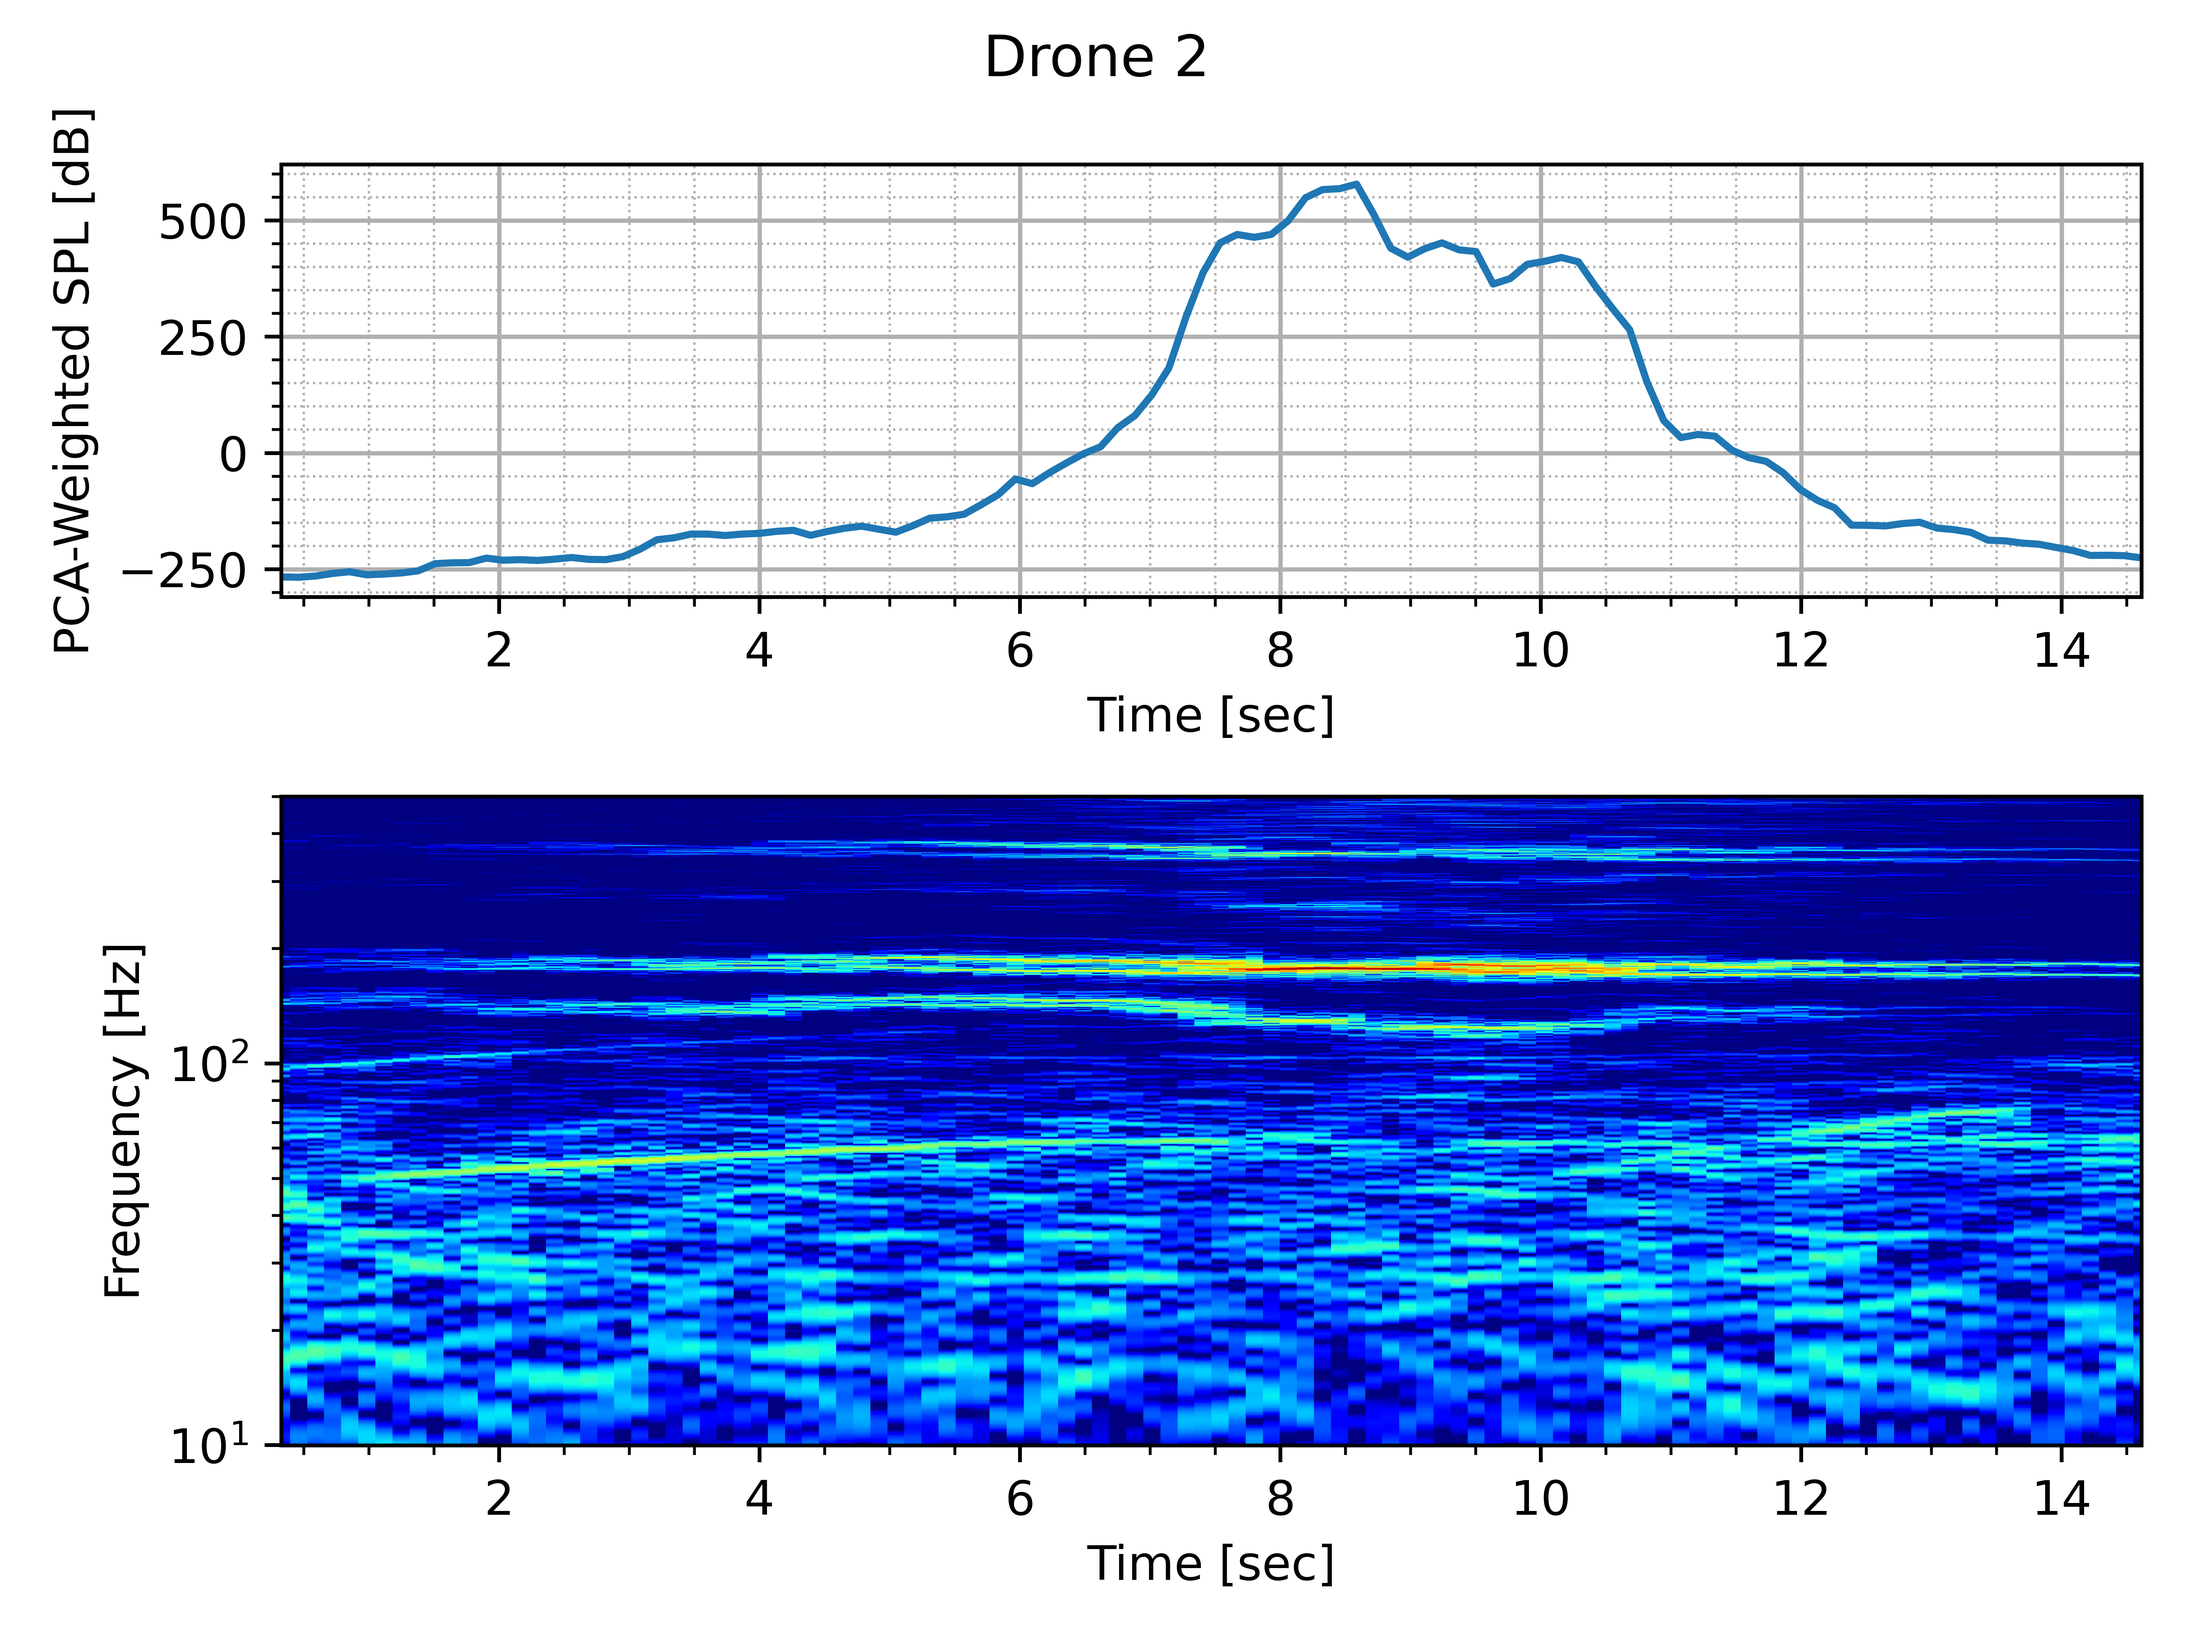
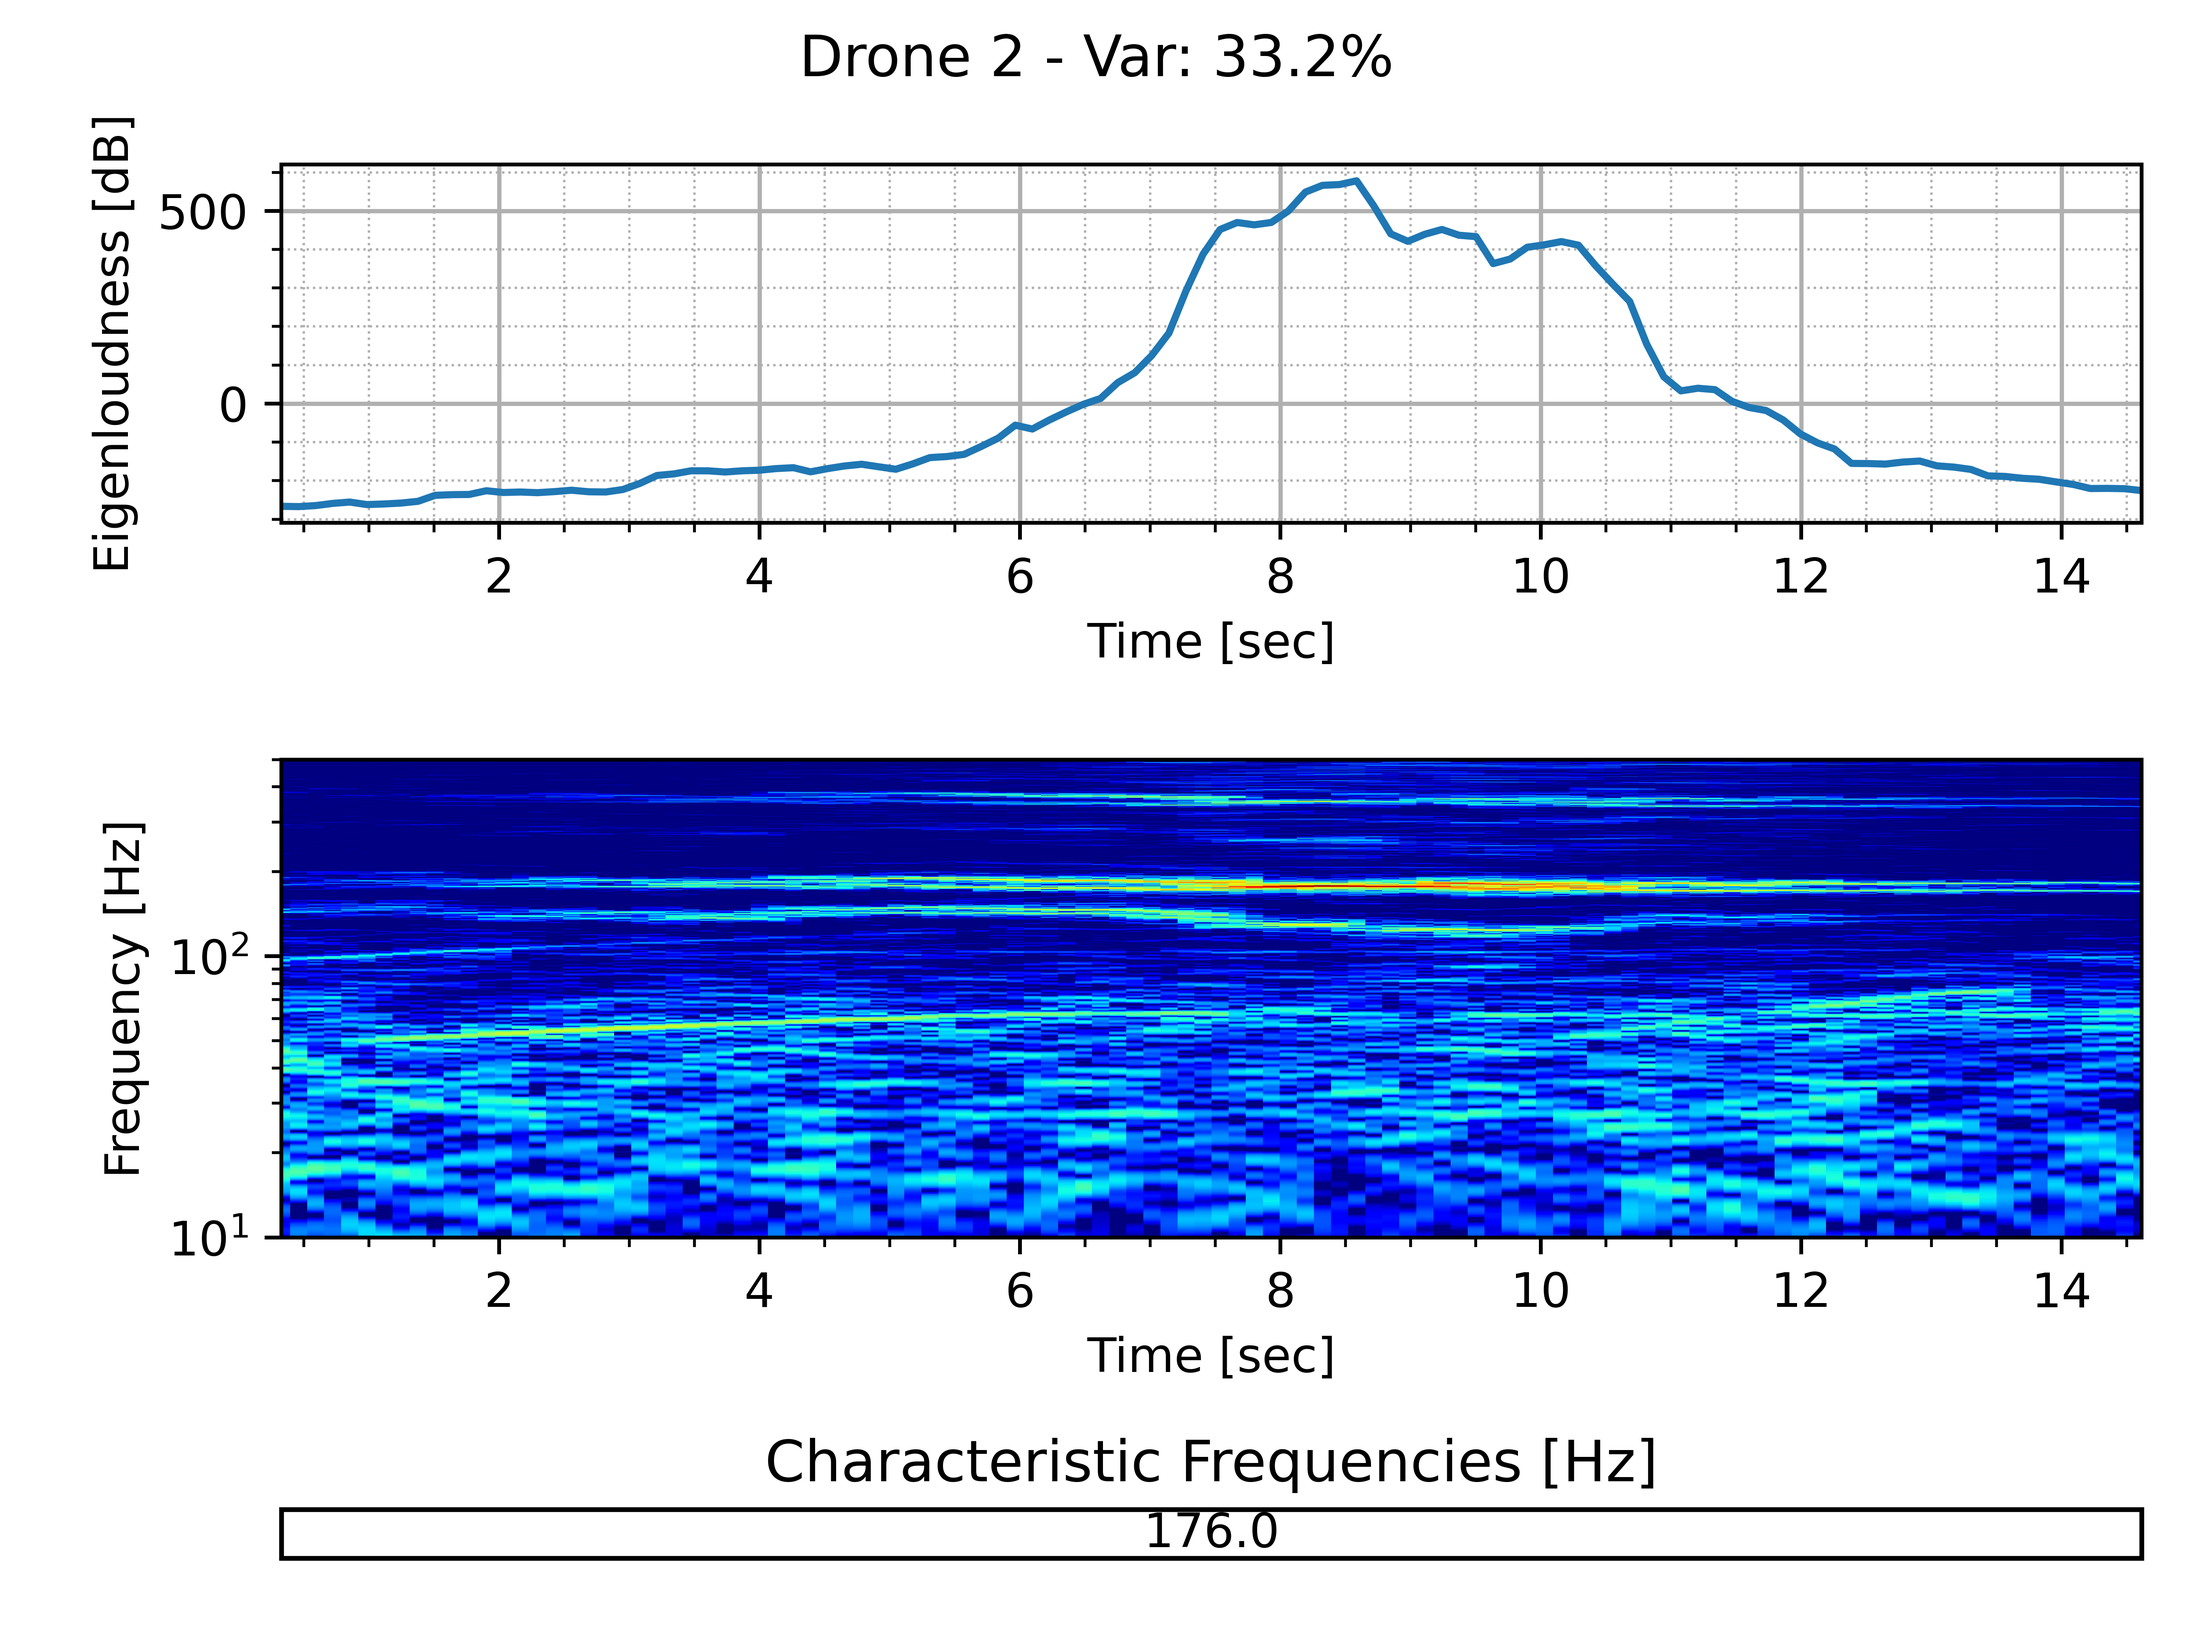
Added Plot

diff --git a/audio_script_3_PCA.py b/audio_script_3_PCA.py
@@ -82,6 +82,8 @@ def cropping(freqs):
             new.append((freqs[i]+freqs[i+1])/2)
         if mask[i] == 1:
             print("out")
+            if i==len(mask)-1:
+                new.append(freqs[i + 1])
         if mask[i] == 2: #append itself
             new.append(freqs[i])
             if i==len(mask)-1:
@@ -106,17 +108,20 @@ while True:
         break
 
 text_f = []
+for i in range(len(a)):
+    text_f.append(str(a[i]))
 
 print("Cleaned Top Frequencies",a)
+print("Cleaned Top Frequencies",text_f)
 
 # Plot Spectrogram and PWOSPL
-fig, ax = plt.subplots(2, 1, gridspec_kw={'height_ratios': [2, 3]})
+fig, ax = plt.subplots(3, 1, gridspec_kw={'height_ratios': [3, 4, 1]})
 
 fig.suptitle(f"Drone {flight_number} - Var: {round(float(variance)*100,1)}%")
 
 ax[0].minorticks_on()
 ax[0].plot(t, red)
-ax[0].set_ylabel('Characteristic Loudness [dB]')
+ax[0].set_ylabel('Eigenloudness [dB]')
 ax[0].set_xlabel('Time [sec]')
 ax[0].set_xlim(t[0], t[-1])
 ax[0].grid(linestyle='-', which='major', linewidth=0.9)
@@ -130,9 +135,15 @@ ax[1].set_xlim(t[0], t[-1])
 #plt.colorbar(label="Power/Frequency [dB/Hz]", orientation="horizontal",location='bottom')
 ax[1].set_yscale("log")
 ax[1].axis(ymin=10, ymax=500)
+
+ax[2].axis('off')
+ax[2].table(cellText=[text_f], colLabels=None, cellLoc='center', loc='center')
+ax[2].set_title("Characteristic Frequencies [Hz]", y=0.7,fontsize=12)
+
 plt.subplots_adjust(hspace=0.3)
 plt.tight_layout()
 plt.savefig(fname=f"Drone {flight_number} PCA",dpi=900)
+
 plt.show()
 
 """
